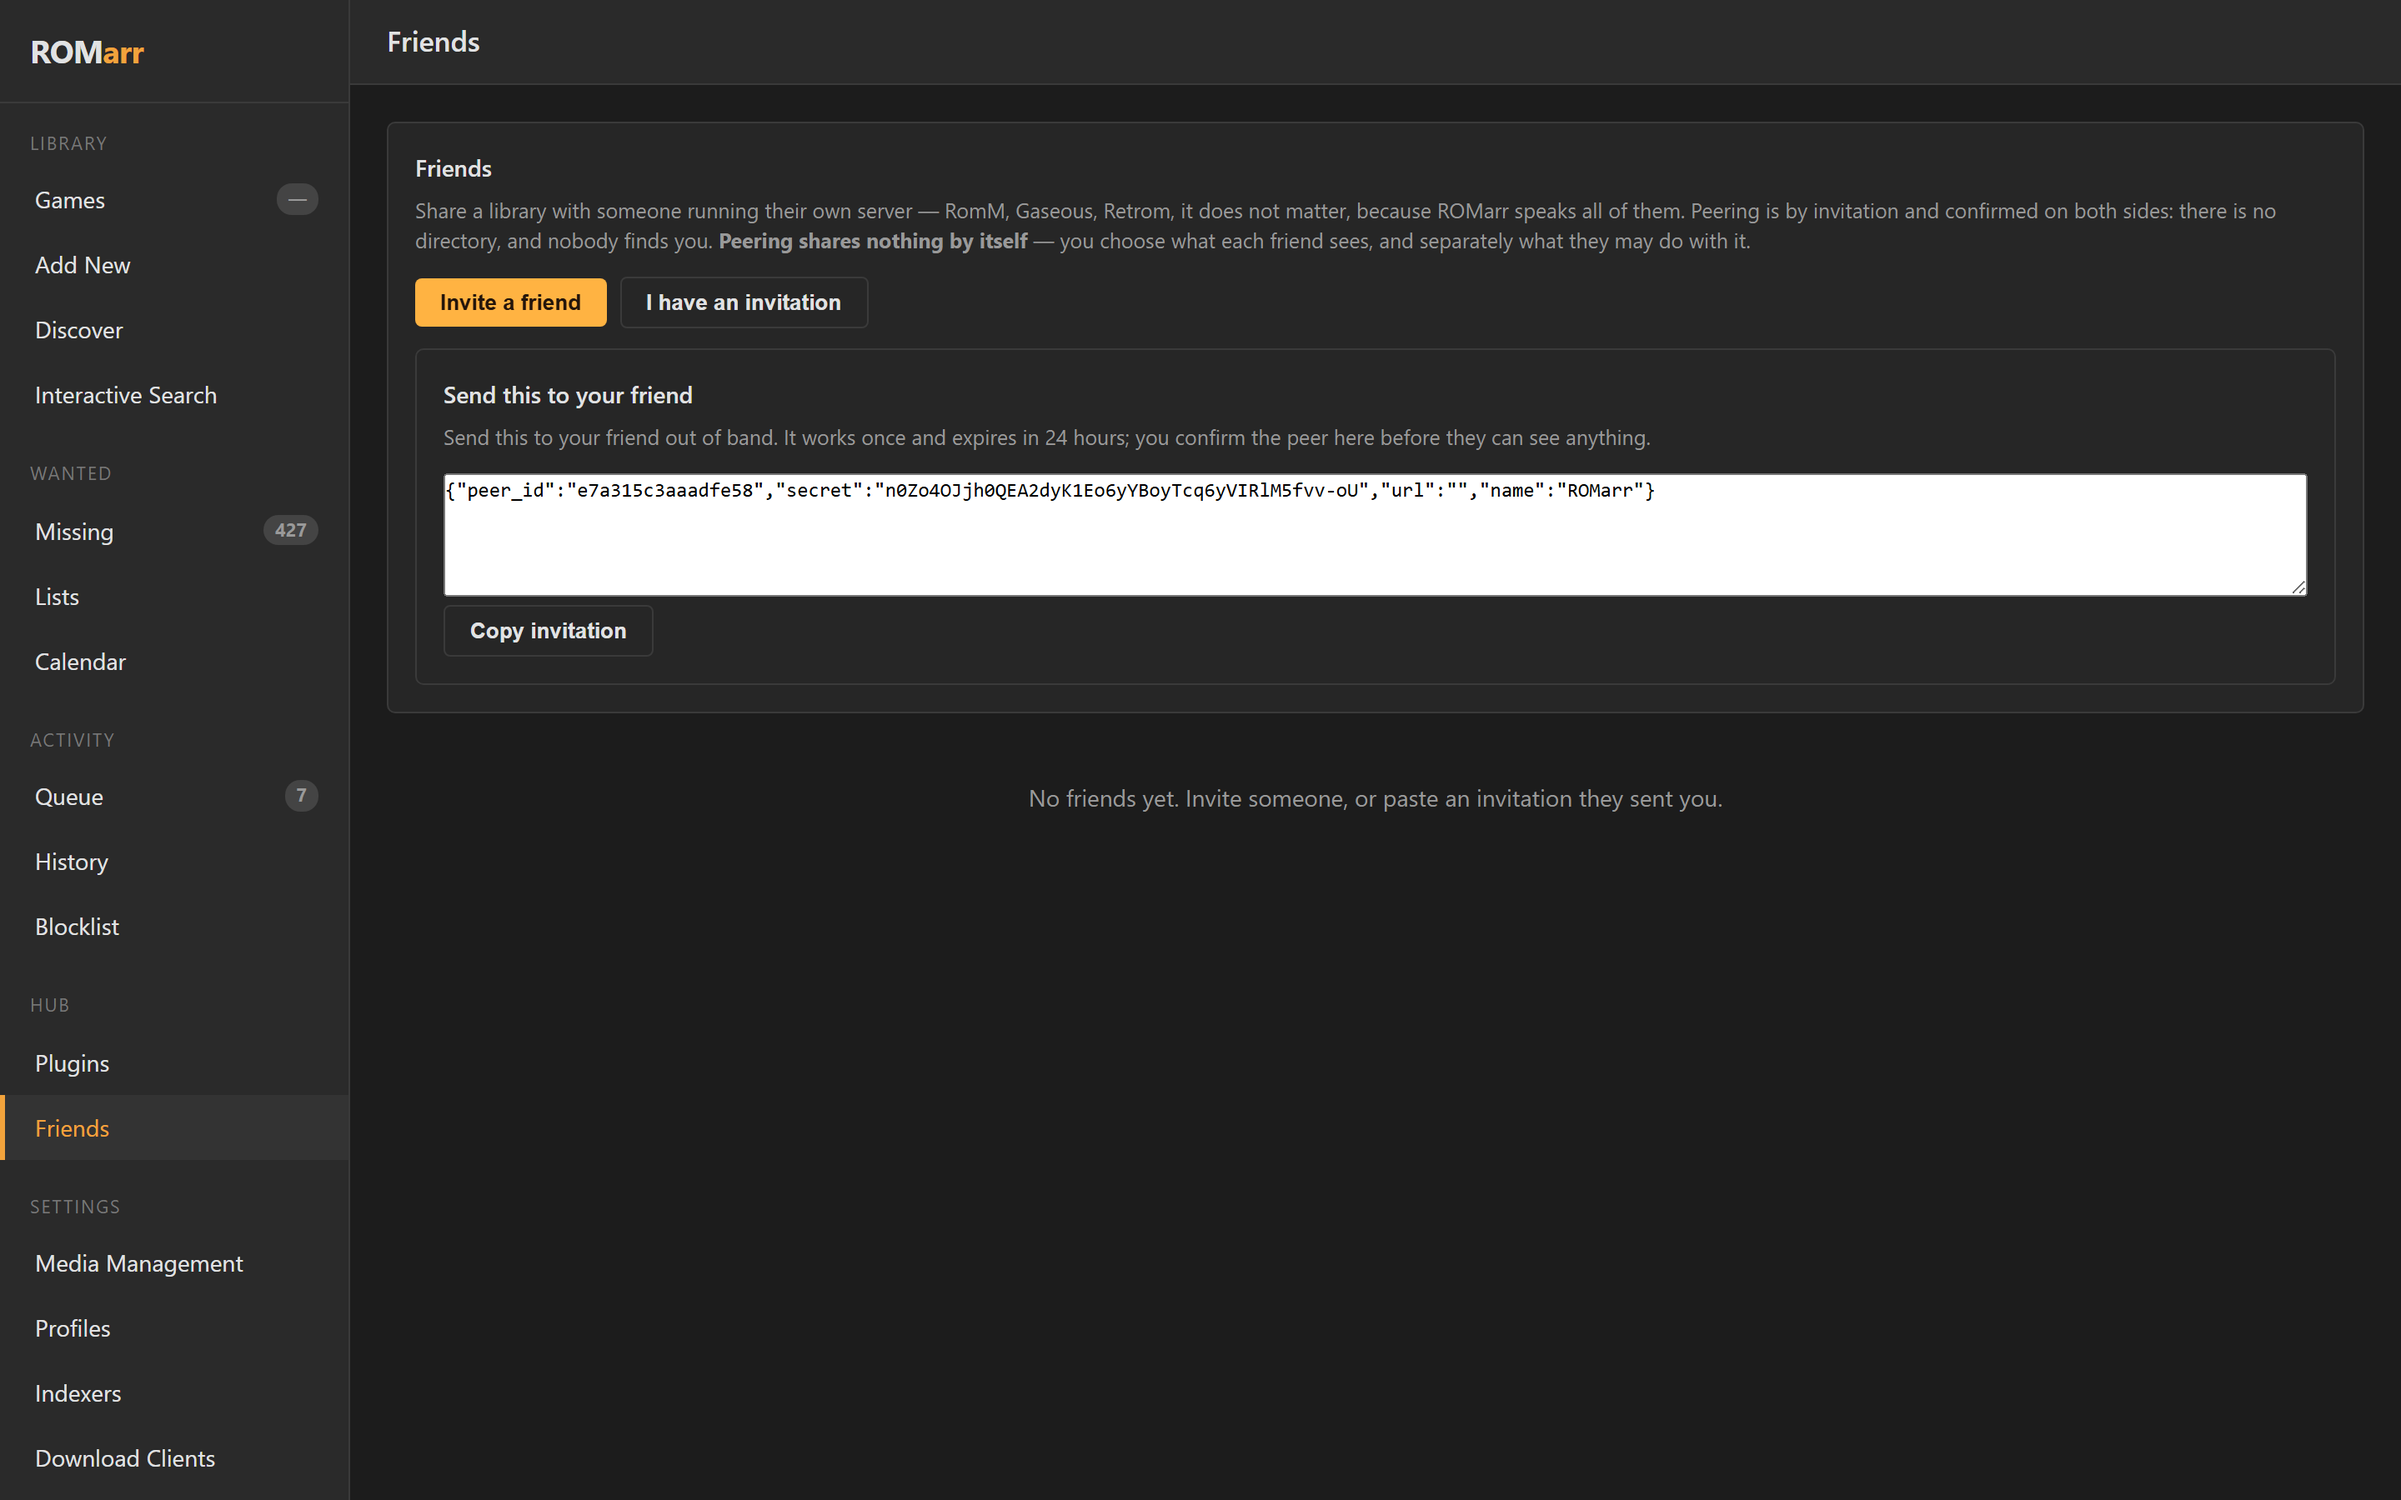
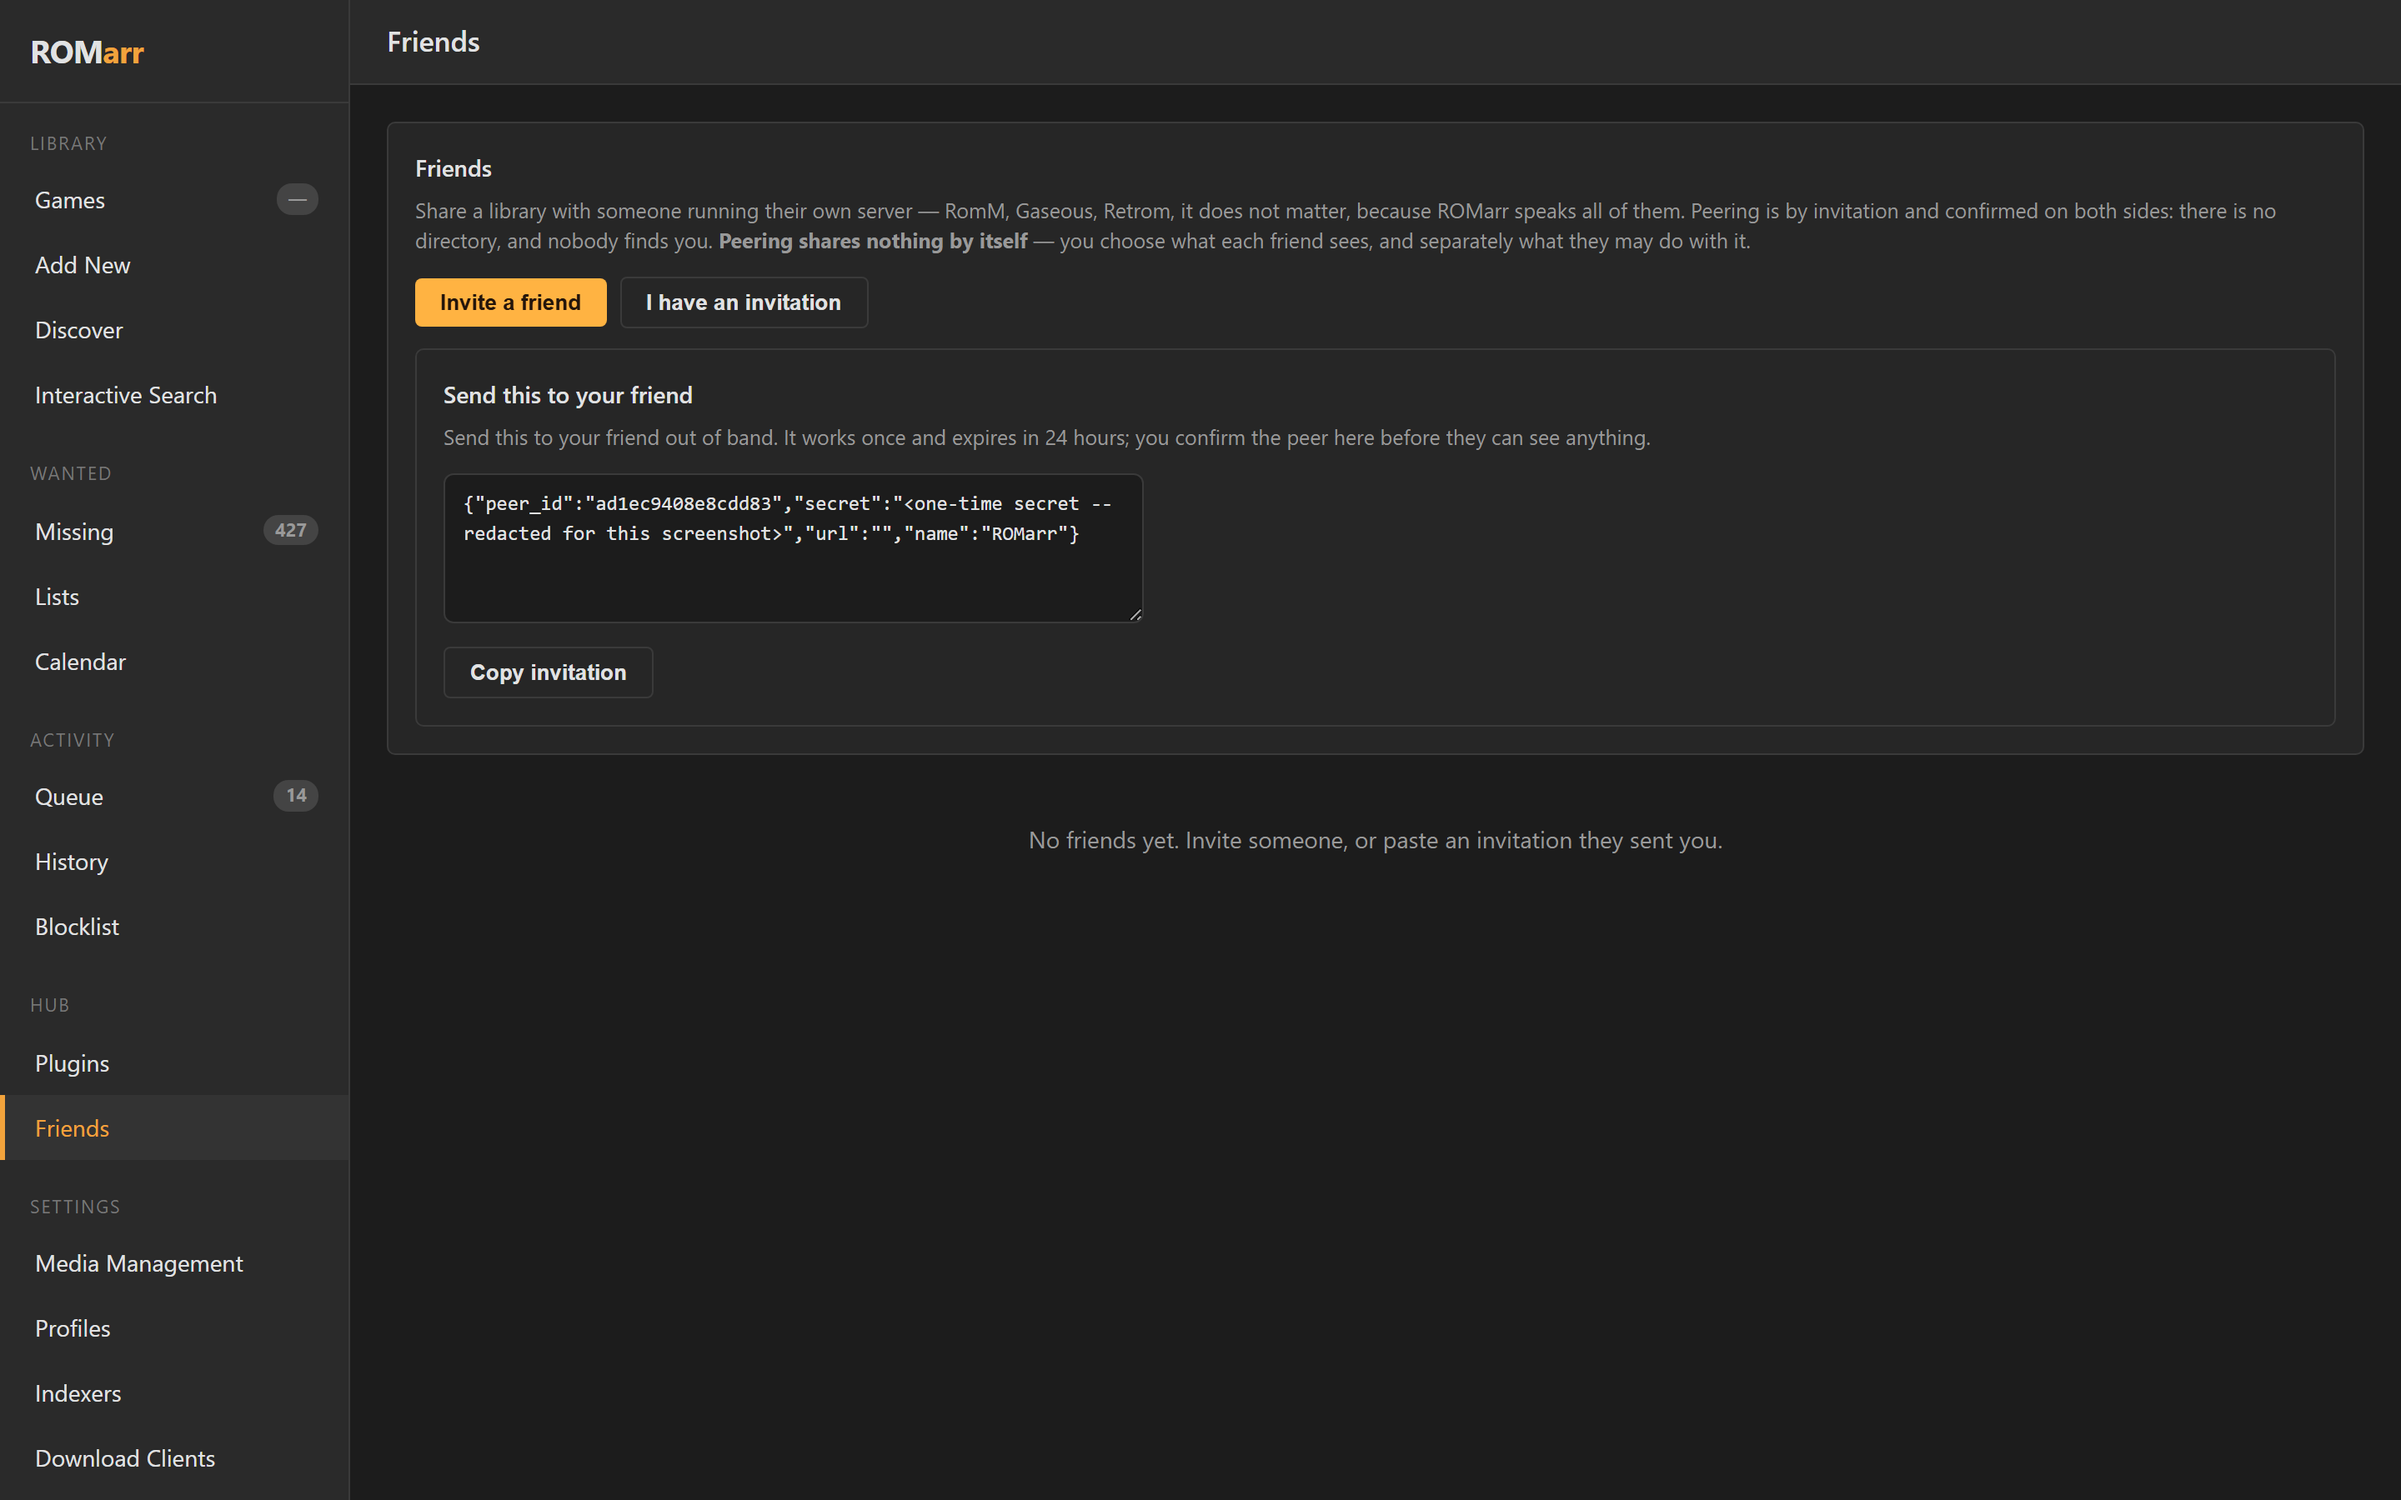
Recapture the Friends screenshot, with the secret redacted
The previous image was taken before the textarea theming fix and showed a
white box on a dark page. It also carried a live single-use invitation
secret, which has no business in a public repo even at 24h expiry.

The capture script redacts the secret in the DOM before the shutter, so the
image still shows the real page and the real shape of an invitation blob.

Changed region(s): [[0.1875, 0.3111, 0.9688, 0.4667], [0.4375, 0.5289, 0.7188, 0.56]]

diff --git a/docs/shot_friends.py b/docs/shot_friends.py
@@ -1,0 +1,47 @@
+"""Screenshot the Friends page, including the invitation panel.
+
+Signs in with the API key rather than the password, so this can run from a
+host that holds the key but not the operator's password.
+
+    python docs/shot_friends.py <base-url> <api-key>
+"""
+import sys
+import time
+
+from playwright.sync_api import sync_playwright
+
+BASE, KEY = sys.argv[1], sys.argv[2]
+
+with sync_playwright() as p:
+    browser = p.chromium.launch()
+    page = browser.new_page(viewport={"width": 1440, "height": 900},
+                            device_scale_factor=2)
+    page.goto(BASE + "/login")
+    page.evaluate("""async ([base, key]) => {
+        await fetch(base + '/api/v1/login', {method: 'POST',
+            headers: {'Content-Type': 'application/json'},
+            body: JSON.stringify({password: '', apikey: key, totp: ''})});
+    }""", [BASE, KEY])
+
+    page.goto(BASE + "/#peers")
+    page.evaluate("go && go('peers')")
+    time.sleep(2)
+
+    # Open the invitation panel -- the part that renders a textarea.
+    page.click("#p-invite")
+    page.wait_for_selector("#p-copy", timeout=15000)
+
+    # The panel is showing a live single-use secret. The screenshot goes to a
+    # public repo, so redact it in the DOM before the shutter: the shape of
+    # the blob is what the image is for, and it is still the real page.
+    page.evaluate("""() => {
+        const t = document.querySelector('#p-out textarea');
+        const blob = JSON.parse(t.value);
+        blob.secret = '<one-time secret -- redacted for this screenshot>';
+        t.value = JSON.stringify(blob);
+    }""")
+    time.sleep(1)
+
+    page.screenshot(path="docs/img/friends.png", full_page=True)
+    print("captured docs/img/friends.png")
+    browser.close()
